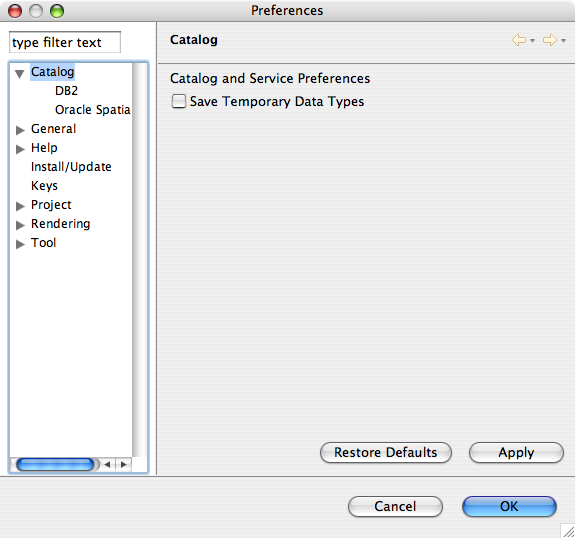
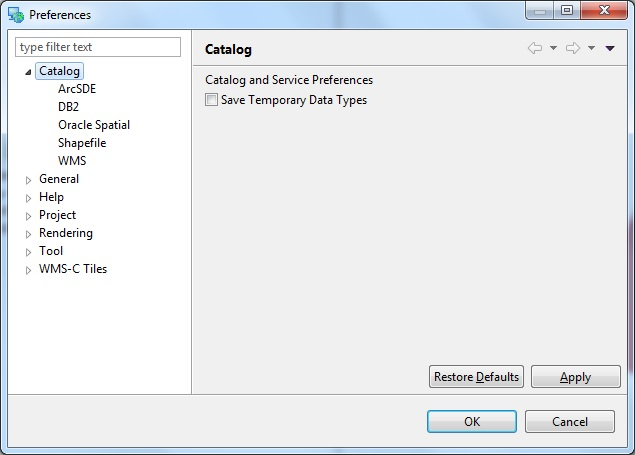
amendments required for internationalization and user documentation

Changed region(s): [[0.0, 0.0, 1.0, 1.0]]

diff --git a/plugins/org.locationtech.udig.catalog.wms/src/org/locationtech/udig/catalog/internal/wms/WMSServiceImpl.java b/plugins/org.locationtech.udig.catalog.wms/src/org/locationtech/udig/catalog/internal/wms/WMSServiceImpl.java
@@ -29,6 +29,7 @@ import org.locationtech.udig.catalog.IService;
 import org.locationtech.udig.catalog.IServiceInfo;
 import org.locationtech.udig.catalog.IResolve.Status;
 import org.locationtech.udig.catalog.wms.internal.Messages;
+import org.locationtech.udig.catalog.wms.preferences.WmsPreferenceConstants;
 import org.locationtech.udig.catalog.wms.preferences.WmsPreferencePage;
 import org.locationtech.udig.ui.ErrorManager;
 import org.locationtech.udig.ui.UDIGDisplaySafeLock;
@@ -359,7 +360,7 @@ public class WMSServiceImpl extends IService {
          */
         public CustomWMS( URL serverURL ) throws IOException, ServiceException, SAXException {
             super(serverURL, WmsPlugin.getDefault().getPreferenceStore().getInt(
-                    WmsPreferencePage.WMS_RESPONSE_TIMEOUT));
+                    WmsPreferenceConstants.WMS_RESPONSE_TIMEOUT));
             
             if (WmsPlugin.isDebugging(REQUEST)) {
                 System.out.println("Connection to WMS located at: " + serverURL); //$NON-NLS-1$

diff --git a/plugins/org.locationtech.udig.catalog.wms/src/org/locationtech/udig/catalog/wms/preferences/WmsPreferenceConstants.java b/plugins/org.locationtech.udig.catalog.wms/src/org/locationtech/udig/catalog/wms/preferences/WmsPreferenceConstants.java
@@ -1,0 +1,22 @@
+/*
+ *    uDig - User Friendly Desktop Internet GIS client
+ *    http://udig.refractions.net
+ *    (C) 2012, Refractions Research Inc.
+ *
+ * All rights reserved. This program and the accompanying materials
+ * are made available under the terms of the Eclipse Public License v1.0
+ * (http://www.eclipse.org/legal/epl-v10.html), and the Refractions BSD
+ * License v1.0 (http://udig.refractions.net/files/bsd3-v10.html).
+ */
+package org.locationtech.udig.catalog.wms.preferences;
+
+/**
+ * Constant definitions for plug-in preferences
+ */
+public class WmsPreferenceConstants {
+
+	public static final String WMS_RESPONSE_TIMEOUT = "WMS_RESPONSE_TIMEOUT"; //$NON-NLS-1$
+
+	public static final int DEFAULT_WMS_RESPONSE_TIMEOUT_IN_SECONDS = 30;
+	
+}

diff --git a/plugins/org.locationtech.udig.catalog.wms/src/org/locationtech/udig/catalog/wms/preferences/WmsPreferencePage.java b/plugins/org.locationtech.udig.catalog.wms/src/org/locationtech/udig/catalog/wms/preferences/WmsPreferencePage.java
@@ -15,8 +15,6 @@ import org.eclipse.ui.IWorkbenchPreferencePage;
  */
 public class WmsPreferencePage extends FieldEditorPreferencePage
 implements IWorkbenchPreferencePage {
-
-	public static final String WMS_RESPONSE_TIMEOUT = "WMS_RESPONSE_TIMEOUT";
 	
 	public WmsPreferencePage() {
 		super(GRID);
@@ -32,8 +30,8 @@ implements IWorkbenchPreferencePage {
 	@Override
 	protected void createFieldEditors() {
 		
-		addField(new IntegerFieldEditor(WMS_RESPONSE_TIMEOUT, "WMS response timeout", getFieldEditorParent()));   
-
+		addField(new IntegerFieldEditor(WmsPreferenceConstants.WMS_RESPONSE_TIMEOUT, 
+				"WMS response timeout", getFieldEditorParent()));   
 	}
 
 }

diff --git a/plugins/org.locationtech.udig.catalog.wms/src/org/locationtech/udig/catalog/wms/preferences/WmsPreferenceInitializer.java b/plugins/org.locationtech.udig.catalog.wms/src/org/locationtech/udig/catalog/wms/preferences/WmsPreferenceInitializer.java
@@ -17,7 +17,8 @@ public class WmsPreferenceInitializer extends AbstractPreferenceInitializer {
     public void initializeDefaultPreferences() {
         IPreferenceStore store = WmsPlugin.getDefault().getPreferenceStore();
        
-        store.setDefault(WmsPreferencePage.WMS_RESPONSE_TIMEOUT, 30);
+        store.setDefault(WmsPreferenceConstants.WMS_RESPONSE_TIMEOUT, 
+        		WmsPreferenceConstants.DEFAULT_WMS_RESPONSE_TIMEOUT_IN_SECONDS);
 
     }
 

diff --git a/plugins/org.locationtech.udig.catalog.wms/src/org/locationtech/udig/catalog/wms/internal/Messages.java b/plugins/org.locationtech.udig.catalog.wms/src/org/locationtech/udig/catalog/wms/internal/Messages.java
@@ -36,6 +36,7 @@ public class Messages extends NLS {
 	public static String WMSCTileUtils_preloadtitle;
 	public static String WMSCTileUtils_preloadtask;
 	public static String WMSCTileUtils_preloadtasksub;
+	public static String WMSPreferencePage_wmstimeout;
 	
 	static {
 		// initialize resource bundle

diff --git a/docs/user/en/reference/Catalog Preferences.rst b/docs/user/en/reference/Catalog Preferences.rst
@@ -95,3 +95,21 @@ Since the drivers are copied into the uDig updating the drivers will require the
 
 .. |image0| image:: /images/db2_preferences/db2Preferences.jpg
 .. |image1| image:: /images/db2_preferences/restart.jpg
+
+.. _preferences-page-catalog-wms:
+
+WMS Preference Page
+----------------------
+
+The WMS Preference Page is used to configure parameter when connecting to a Web Map Server.
+
+The WMS response timeout controls the max wait time (in sec) for a response from a WMS server. 
+The default value is 30 sec.   
+
+	|image2|
+
+**Related reference**
+
+:doc:`Web Map Server page`
+
+.. |image2| image:: /images/wms_preferences/wmsCatalogPreferences.jpg
